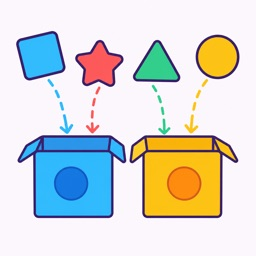
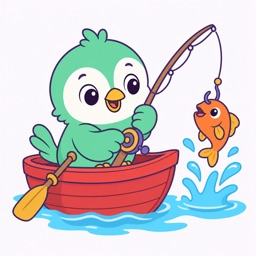
1.10: lessons, Shop/Builder/Cleaning/Cooking/Fishing, 21 games

diff --git a/index.html b/index.html
@@ -4,7 +4,7 @@
 <meta charset="utf-8">
 <meta name="viewport" content="width=device-width, initial-scale=1, viewport-fit=cover">
 <title>פצפון – אנגלית, קריאה בעברית וחשבון לילדים, דרך משחק</title>
-<meta name="description" content="פצפון מלמדת ילדים בגילאי 3–8 אנגלית, קריאה בעברית עם ניקוד וחשבון, דרך משחקים. חדש: פרופיל לכל ילד, שמתאים את עצמו לגיל ולמה שקשה לו, ומשחקי ניקוד חדשים. בלי פרסומות, בלי מעקב, עובד גם בלי אינטרנט.">
+<meta name="description" content="פצפון מלמדת ילדים בגילאי 3–8 אנגלית, קריאה בעברית עם ניקוד וחשבון, דרך משחקים. חדש: כל תחנה במסע היא שיעור קטן של שלוש מילים, ושלושה משחקים חדשים – חנות, בונים בית ומנקים. בלי פרסומות, בלי מעקב, עובד גם בלי אינטרנט.">
 <meta name="theme-color" content="#6C4BD6">
 <link rel="icon" href="img/favicon.png">
 <link rel="apple-touch-icon" href="img/icon.png">
@@ -13,7 +13,7 @@
 <meta property="og:type" content="website">
 <meta property="og:locale" content="he_IL">
 <meta property="og:title" content="פצפון – אנגלית, קריאה בעברית וחשבון לילדים, דרך משחק">
-<meta property="og:description" content="חדש: פרופיל לכל ילד ומשחקי ניקוד חדשים! אנגלית, קריאה עם ניקוד וחשבון באפליקציה אחת. בלי פרסומות ובלי מעקב. שבוע ניסיון חינם.">
+<meta property="og:description" content="חדש: שיעור קטן בכל תחנה, ומשחקי חנות, בנייה וניקיון! אנגלית, קריאה עם ניקוד וחשבון באפליקציה אחת. בלי פרסומות ובלי מעקב. שבוע ניסיון חינם.">
 <meta property="og:image" content="https://pizpon.com/img/og.jpg">
 <meta name="twitter:card" content="summary_large_image">
 <meta name="apple-itunes-app" content="app-id=6800318411">
@@ -374,7 +374,7 @@
   <div class="blob a"></div><div class="blob b"></div>
   <div class="wrap">
     <div>
-      <a class="pill" href="#kids" style="text-decoration:none"><span class="new">חדש!</span> פרופיל לכל ילד ומשחקי ניקוד</a>
+      <a class="pill" href="#games" style="text-decoration:none"><span class="new">חדש!</span> חנות, בונים בית ומנקים</a>
       <h1>אנגלית, קריאה<br>וחשבון לילדים,<br><span class="hl">דרך משחק.</span></h1>
       <p class="lead">פצפון מלמדת ילדים בגילאי <span dir="ltr">3–8</span> את המילים הראשונות באנגלית, לקרוא עברית עם ניקוד ולחשב. לכל ילד בבית פרופיל משלו, שמתאים את עצמו לגיל ולמה שקשה לו. כל מילה עם תמונה, הקלטה קולית ותרגום, כך שגם ילד שעוד לא קורא משחק ומתקדם לבד. ועל כל משחק מרוויחים כוכבים, שפותחים מתנות הפתעה עם 25 קלפי גיבורים לאסוף.</p>
       <div class="stores" id="download">
@@ -392,8 +392,8 @@
 
     <div class="stage">
       <div class="float f1"><img src="img/game_space.jpg" alt="משחק החללית"></div>
-      <div class="float f2"><img src="img/game_bricks.jpg" alt="משחק שובר לבנים"></div>
-      <div class="float f3"><img src="img/game_bubble.jpg" alt="משחק הבועות"></div>
+      <div class="float f2"><img src="img/game_build.jpg" alt="משחק בונים בית"></div>
+      <div class="float f3"><img src="img/game_shop.jpg" alt="משחק החנות"></div>
       <div class="phone"><img src="img/shot-home.jpg" alt="מסך הבית של פצפון: המסע, מדבקות ו-ABC"></div>
       <img class="mascot-hero" src="img/mascot_happy.png" alt="">
     </div>
@@ -402,7 +402,7 @@
 
 <div class="wrap facts">
   <div class="fact"><b>439</b><span>מילים באנגלית</span></div>
-  <div class="fact"><b>18</b><span>משחקים לפי גיל</span></div>
+  <div class="fact"><b>21</b><span>משחקים לפי גיל</span></div>
   <div class="fact"><b>25</b><span>נושאים</span></div>
   <div class="fact"><b>0</b><span>פרסומות</span></div>
 </div>
@@ -410,12 +410,12 @@
 <section>
   <div class="wrap center">
     <div class="eyebrow">איך זה עובד</div>
-    <h2>שומעים, משחקים, אומרים</h2>
-    <p class="sub">שלושה צעדים פשוטים, בדיוק כמו שילדים לומדים שפה – בלי שיעורי בית ובלי שינון.</p>
+    <h2>כל תחנה היא שיעור קטן</h2>
+    <p class="sub">שלוש מילים חדשות בכל פעם. פוגשים אותן, משחקים בהן מיד, ושומרים אותן לתמיד – בלי שיעורי בית ובלי שינון.</p>
     <div class="steps">
-      <div class="step"><div class="num" style="background:var(--sky-ink)">1</div><h3>שומעים</h3><p>כל מילה מגיעה עם תמונה ברורה והקלטה קולית – באנגלית ובעברית.</p></div>
-      <div class="step"><div class="num" style="background:var(--coral-ink)">2</div><h3>משחקים</h3><p>יורים באסטרואידים, שוברים לבנים, מפוצצים בועות – וכל מהלך הוא החלטה על מילה.</p></div>
-      <div class="step"><div class="num" style="background:var(--grass-ink)">3</div><h3>אומרים</h3><p>הילד אומר את המילה בקול, והאפליקציה בודקת אם אמר נכון – ישר במכשיר.</p></div>
+      <div class="step"><div class="num" style="background:var(--sky-ink)">1</div><h3>פוגשים</h3><p>שלוש מילים חדשות מתחבאות בשיחים. כל אחת מגיעה עם תמונה, הקלטה קולית ו"תגידו אחריי".</p></div>
+      <div class="step"><div class="num" style="background:var(--coral-ink)">2</div><h3>משחקים</h3><p>מיד אחר כך משחקים רק עם שלוש המילים האלה: מוכרים בחנות, בונים בית, מנקים, יורים באסטרואידים.</p></div>
+      <div class="step"><div class="num" style="background:var(--grass-ink)">3</div><h3>אוספים</h3><p>המילים עפות לספר המילים של הילד כמדבקות, וכל תחנה מוסיפה עוד שלוש.</p></div>
     </div>
   </div>
 </section>
@@ -536,26 +536,34 @@
   </div>
 </section>
 
-<section class="games-bg">
+<section class="games-bg" id="games">
   <div class="wrap center">
-    <div class="eyebrow">18 משחקים</div>
+    <div class="eyebrow">21 משחקים</div>
     <h2>משחקים אמיתיים, לא עוד חידון</h2>
-    <p class="sub">ילדים לא מבקשים "עוד שיעור". הם מבקשים "עוד משחק". אז בנינו משחקים שבהם האנגלית היא הדרך לנצח.</p>
+    <p class="sub">ילדים לא מבקשים "עוד שיעור". הם מבקשים "עוד משחק". אז בנינו משחקים שבהם האנגלית היא הדרך לנצח, ופצפון משחק איתם: הוא הלקוח בחנות, השכן בבנייה והיריב במרוץ.</p>
     <div class="games">
+      <div class="game g-pink"><span class="badge">חדש</span><img src="img/game_shop.jpg" alt=""><b>החנות</b></div>
+      <div class="game g-gold"><span class="badge">חדש</span><img src="img/game_build.jpg" alt=""><b>בונים בית</b></div>
+      <div class="game g-sky"><span class="badge">חדש</span><img src="img/game_clean.jpg" alt=""><b>מנקים</b></div>
+      <div class="game g-coral"><span class="badge">חדש</span><img src="img/game_cook.jpg" alt=""><b>בישול</b></div>
+      <div class="game g-sky"><img src="img/game_jump.jpg" alt=""><b>קפיצה לאוצר</b></div>
+      <div class="game g-grape"><img src="img/game_battle.jpg" alt=""><b>קרב גיבורים</b></div>
       <div class="game g-grape"><img src="img/game_space.jpg" alt=""><b>חללית</b></div>
-      <div class="game g-coral"><img src="img/game_blocks.jpg" alt=""><b>בלוקים</b></div>
+      <div class="game g-coral"><img src="img/game_sentence.jpg" alt=""><b>משפטים</b></div>
       <div class="game g-gold"><img src="img/game_bricks.jpg" alt=""><b>שובר לבנים</b></div>
       <div class="game g-sky"><img src="img/game_bubble.jpg" alt=""><b>בועות</b></div>
       <div class="game g-pink"><img src="img/game_feed.jpg" alt=""><b>האכלה</b></div>
       <div class="game g-gold"><img src="img/game_race.jpg" alt=""><b>מרוץ</b></div>
-      <div class="game g-grass"><img src="img/game_catch.jpg" alt=""><b>תפיסה</b></div>
-      <div class="game g-coral"><img src="img/game_match.jpg" alt=""><b>התאמה</b></div>
+      <div class="game g-grass"><img src="img/game_letter.jpg" alt=""><b>השלמת אות</b></div>
+      <div class="game g-coral"><img src="img/game_scramble.jpg" alt=""><b>ערבוב אותיות</b></div>
       <div class="game g-grape"><img src="img/game_memory.jpg" alt=""><b>זיכרון</b></div>
       <div class="game g-pink"><img src="img/game_speak.jpg" alt=""><b>אומרים</b></div>
-      <div class="game g-sky"><img src="img/game_sort.jpg" alt=""><b>מיון</b></div>
+      <div class="game g-sky"><span class="badge">חדש</span><img src="img/game_sort.jpg" alt=""><b>דיג</b></div>
       <div class="game g-gold"><img src="img/game_spell.jpg" alt=""><b>איות</b></div>
+      <div class="game g-coral"><img src="img/game_read.jpg" alt=""><b>קריאה</b></div>
+      <div class="game g-sky"><img src="img/game_sound.jpg" alt=""><b>צליל פותח</b></div>
+      <div class="game g-grape"><img src="img/game_type.jpg" alt=""><b>הקלדה</b></div>
     </div>
-    <p class="sub" style="margin-top:28px">ועוד: קריאה, צליל פותח, השלמת אות, ערבוב אותיות, הקלדה ובניית משפטים.</p>
   </div>
 </section>
 
@@ -568,6 +576,9 @@
   <div class="wrap">
     <div class="shots">
       <div class="shot"><img src="img/shot-home.jpg" alt="מסך הבית" loading="lazy"><span>מסך הבית</span></div>
+      <div class="shot"><img src="img/shot-shop.jpg" alt="משחק החנות: פצפון קונה, והילד מעביר את המוצר בסורק" loading="lazy"><span>מוכרים בחנות</span></div>
+      <div class="shot"><img src="img/shot-build.jpg" alt="משחק הבנייה: מנוף, ותבנית זוהרת של הבית שבונים" loading="lazy"><span>בונים בית</span></div>
+      <div class="shot"><img src="img/shot-clean.jpg" alt="משחק הניקיון: משפשפים את הבוץ מעל התמונה הנכונה" loading="lazy"><span>מנקים</span></div>
       <div class="shot"><img src="img/shot-words.jpg" alt="לימוד מילים" loading="lazy"><span>לומדים מילים</span></div>
       <div class="shot"><img src="img/shot-abc.jpg" alt="לימוד אותיות" loading="lazy"><span>לומדים אותיות</span></div>
       <div class="shot"><img src="img/shot-games.jpg" alt="בחירת משחק" loading="lazy"><span>בוחרים משחק</span></div>
@@ -588,20 +599,20 @@
     <div class="ages">
       <div class="age little">
         <h3>גילאי <span dir="ltr">3–5</span></h3>
-        <div class="tag">10 משחקים · בלי צורך לקרוא</div>
+        <div class="tag">14 משחקים · בלי צורך לקרוא</div>
         <ul>
           <li>מטרות גדולות, תנועה איטית וסלחנית</li>
-          <li>בועות, האכלת מפלצת, חללית ושובר לבנים עם רשת ביטחון</li>
+          <li>בועות, האכלת מפלצת, חנות, בונים בית ומנקים</li>
           <li>לא צריך לדעת לקרוא – כל מילה נשמעת בקול, עם תמונה</li>
         </ul>
       </div>
       <div class="age big">
         <h3>גילאי <span dir="ltr">6–8</span></h3>
-        <div class="tag">16 משחקים · קריאה, כתיבה ומשפטים</div>
+        <div class="tag">19 משחקים · קריאה, כתיבה ומשפטים</div>
         <ul>
           <li>סולם קריאה: מזהים מילה, צליל פותח, אות חסרה, איות והקלדה</li>
           <li>בונים משפטים שלמים באנגלית</li>
-          <li>משחקי אקשן: בלוקים (טטריס), חללית ושובר לבנים</li>
+          <li>משחקי אקשן: חללית, שובר לבנים ומרוץ</li>
           <li>קריאה בעברית עם ניקוד, וחשבון 123</li>
         </ul>
       </div>
